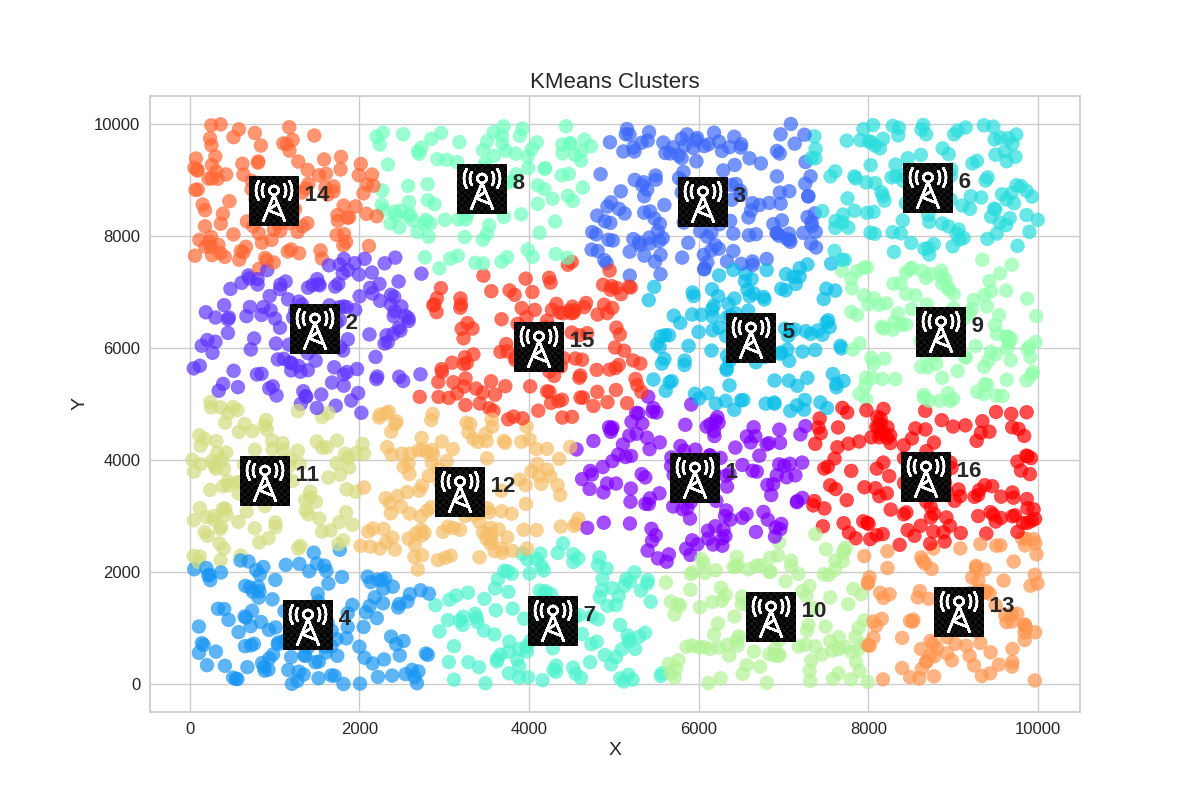
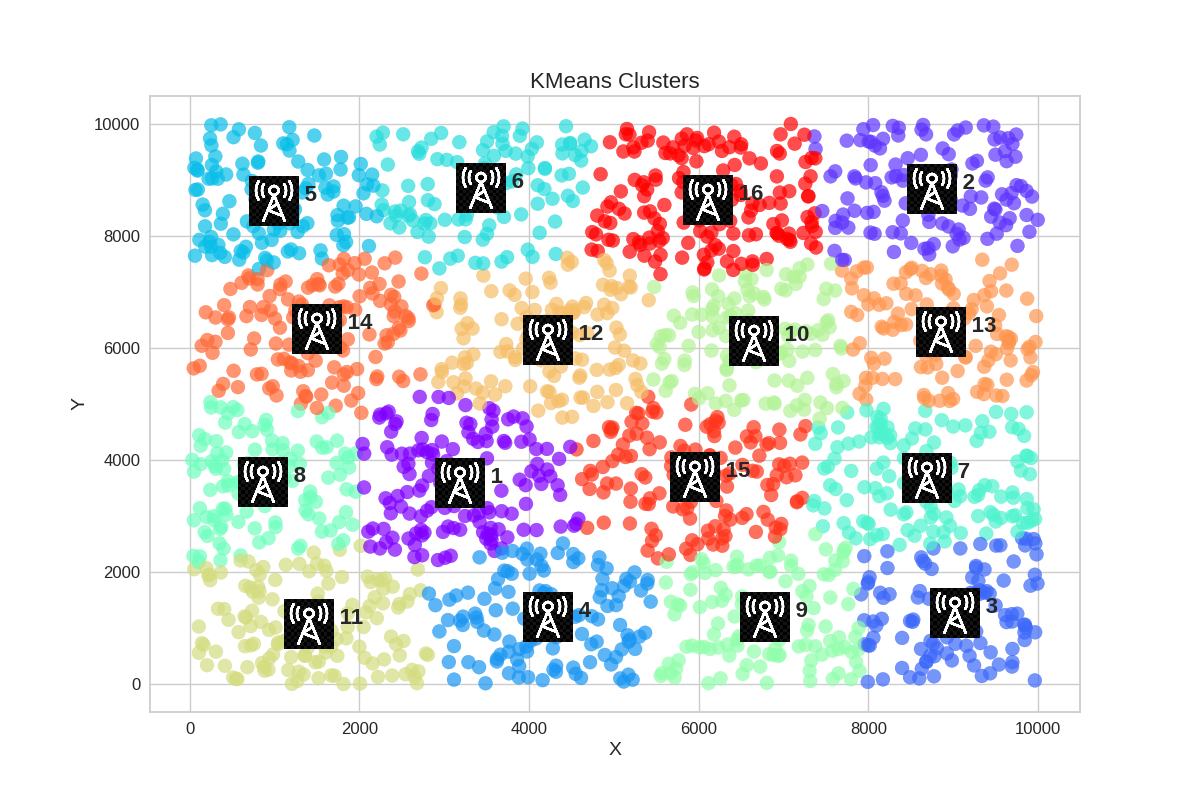
Parallel Gap Statistics

Changed region(s): [[0.1542, 0.125, 0.8942, 0.875]]

diff --git a/gapstatistic.py b/gapstatistic.py
@@ -1,3 +1,4 @@
+import joblib
 import numpy as np
 import pandas as pd
 from sklearn.cluster import KMeans
@@ -81,15 +82,15 @@ def optimalC(data, nrefs=3, maxClusters=15):
             cntr, u, u0, d, jm, p, fpc = cmeans(data=randomReference, c=c, m=2, error=0.005, maxiter=1000)
 
             # Holder for reference dispersion results
-            #BWkbs[i] = np.log(jm[len(jm)-1])
-            BWkbs[i] = np.log(np.mean(jm))
+            BWkbs[i] = np.log(jm[len(jm)-1])
+            #BWkbs[i] = np.log(np.mean(jm))
 
         # Fit cluster to original data and create dispersion
         cntr, u, u0, d, jm, p, fpc = cmeans(data=data, c=c, m=2, error=0.005, maxiter=1000)
 
         # Holder for original dispersion results
-        #Wks[gap_index] = np.log(jm[len(jm)-1])
-        Wks[gap_index] = np.log(np.mean(jm))
+        Wks[gap_index] = np.log(jm[len(jm)-1])
+        #Wks[gap_index] = np.log(np.mean(jm))
 
         # Calculate gap statistic
         gap = sum(BWkbs)/nrefs - Wks[gap_index]
@@ -137,7 +138,6 @@ def optimalC(data, nrefs=3, maxClusters=15):
 
 
 def optimalC1(data, nrefs=3, maxClusters=15):
-    print('optimalC1')
     """
     Calculates KMeans optimal K using Gap Statistic from Tibshirani, Walther, Hastie
     Params:
@@ -209,3 +209,75 @@ def points_limit(data, k, maxPoints=100):
         if a == k:
             desorganized = False
     return k
+
+def calculate_dispersions(c, randomReference):
+        cntr, u, u0, d, jm, p, fpc = cmeans(data=randomReference, c=c, m=2, error=0.005, maxiter=1000)
+        BWkb = np.log(np.mean(jm))
+        return BWkb
+
+def optimalC2(data, nrefs=3, maxClusters=15):
+    """
+    Calculates Fuzzy C-Means optimal C using Gap Statistic from Sentelle, Hong, Georgiopoulos, Anagnostopoulos
+    Params:
+        data: ndarray of shape (n_samples, n_features)
+        nrefs: number of sample reference datasets to create
+        maxClusters: Maximum number of clusters to test for
+    Returns: (k, resultsdf, gp)
+    """
+    
+    sdk = np.zeros(len(range(0, maxClusters)))
+    sError = np.zeros(len(range(0, maxClusters)))
+    BWkbs = np.zeros(len(range(0, nrefs)))
+    Wks = np.zeros(len(range(0, maxClusters)))
+    Wkbs = np.zeros(len(range(0, maxClusters)))
+    gaps_sks = np.zeros((len(range(1, maxClusters))))
+    gp = []
+
+    gaps = np.zeros((len(range(1, maxClusters)),))
+    resultsdf = []
+
+    num_cores = joblib.cpu_count()  # Adjust this to control the number of CPU cores to use in parallel computations
+
+    for gap_index, c in enumerate(range(1, maxClusters)):
+        # Use joblib to calculate reference dispersions in parallel
+        BWkbs = joblib.Parallel(n_jobs=-1)(
+            joblib.delayed(calculate_dispersions)(c, np.random.random_sample(size=data.shape)) for i in range(nrefs)
+        )
+
+        cntr, u, u0, d, jm, p, fpc = cmeans(data=data, c=c, m=2, error=0.005, maxiter=1000)
+
+        Wks[gap_index] = np.log(np.mean(jm))
+
+        gap = sum(BWkbs) / nrefs - Wks[gap_index]
+
+        gaps[gap_index] = gap
+
+        resultsdf.append({'clusterCount': c, 'gap': gap})
+
+        Wkbs[gap_index] = sum(BWkbs) / nrefs
+        sdk[gap_index] = np.sqrt((sum((BWkbs - Wkbs[gap_index])**2)) / nrefs)
+
+        sError[gap_index] = sdk[gap_index] * np.sqrt(1 + 1 / nrefs)
+
+    for k, _ in enumerate(range(1, maxClusters)):
+        if not k == len(gaps) - 1:
+            if gaps[k] >= gaps[k + 1] - sError[k + 1]:
+                gaps_sks[k] = gaps[k] - gaps[k + 1] - sError[k + 1]
+        else:
+            gaps_sks[k] = -20
+
+        gp.append({'clusterCount': k+1, 'Gap_sk': gaps_sks[k]})
+
+    iter_points = [x[0]+1 for x in sorted([y for y in enumerate(gaps)], key=lambda x: x[1], reverse=True)[:3]]
+    iter_points_sk = [x[0]+1 for x in sorted([y for y in enumerate(gaps_sks)], key=lambda x: x[1], reverse=True)[:3]]
+    a = list(filter(lambda g: g in iter_points, iter_points_sk))
+    if a:
+        if not min(a) == 1:
+            k = min(a)
+        else:
+            a.remove(1)
+            k = min(a)
+    else:
+        k = min(iter_points_sk)
+
+    return k, pd.DataFrame(resultsdf), pd.DataFrame(gp)

diff --git a/test_cluster.py b/test_cluster.py
@@ -3,7 +3,7 @@ import os
 import pandas as pd
 import matplotlib.pyplot as plt
 from yellowbrick.cluster import KElbowVisualizer
-from gapstatistic import optimalK, optimalC
+from gapstatistic import optimalK, optimalC2
 
 scratch_dir = '/home/thiago/Documentos/Doutorado/Simuladores/ns-3-dev/scratch'
 dap = 'dap_clustering'
@@ -407,17 +407,13 @@ def simulate_models():
         'kmedoids': lambda k: KMedoids(k),
     }
     metric_names = ['gap']
-    ks = {
-        'kmeans': 16,
-        'kmedoids': 16,
-        'cmeans':  21
-    }
+    ks = {}
 
     for model in model_names:
         for metric in metric_names:
-            #df = pd.read_csv(f'{base_dir}/data/{model}/{metric}/daps.csv', names=['k', 'gap'])
-            #k = df.loc[df['gap'].idxmax(), 'k']
-            #ks[model] = k
+            df = pd.read_csv(f'{base_dir}/data/{model}/{metric}/daps.csv', names=['k', 'gap'])
+            k = df.loc[df['gap'].idxmax(), 'k']
+            ks[model] = k
             clf = models[model](ks[model])
             clf.fit(ed_coords)
             centroids = clf.cluster_centers_
@@ -425,8 +421,8 @@ def simulate_models():
             simulate(ed_coords, centroids, model)
 
     # Simulating C-Means
-    df = pd.read_csv(f'{data_dir}/cmeans/gap/daps.csv').drop(0, axis=0)
-    k = df.loc[df['gap'].idxmax(), 'clusterCount']
+    df = pd.read_csv(f'{data_dir}/cmeans/gap/daps.csv', names=['k', 'gap'])
+    k = df.loc[df['gap'].idxmax(), 'k']
     ks['cmeans'] = k
     centroids = plot_cclusters(ed_coords, k)
     simulate(ed_coords, centroids, 'cmeans')
@@ -437,25 +433,19 @@ def simulate_models():
 def opt_cmeans():
     ed_coords = generate_ed_coords() 
 
+    num_iters = 20
     max_clusters = 30
 
-    k, results, _ = optimalC(ed_coords.T, nrefs=5, maxClusters=max_clusters+1)
+    for i in range(num_iters):
+        k, results, _ = optimalC2(ed_coords.T, nrefs=100, maxClusters=max_clusters+1)
+        score = results['gap'][k-1]
 
-    plt.plot(range(1, max_clusters+1, 1), results['gap'])
-    plt.title(f'DAP optimal quantity - C-Means and Gap Statistics (k={k})', fontsize=14)
-    plt.grid(True)
-    plt.xlabel('k', fontsize=12)
-    plt.ylabel('Gaps', fontsize=12)
-    plt.xticks(fontsize=10)
-    plt.yticks(fontsize=10)
-    plt.savefig(f'{img_dir}/cmeans/gap/{k}_daps.png')
-    plt.clf()
+        write_scores({'k': k, 'score': score}, f'data/cmeans/gap/daps.csv')
 
-    results.to_csv(f'{data_dir}/cmeans/gap/daps.csv', index=False)
-    print(f'DAP optimal quantity - C-Means and Gap Statistics (k={k})')
-    print('++++++++++++++++++++++++++++++++++++++++++++++++++++++++++')
+        print(f'k defined in the iteration {i+1} with gap statistics = {k}')
+        print('++++++++++++++++++++++++++++++++++++++++++++++++++++++++++')    
 
 if __name__ == '__main__':
-    opt_kmodels()
-    opt_cmeans()
-    #simulate_models()
+    # opt_kmodels()
+    # opt_cmeans()
+    simulate_models()
